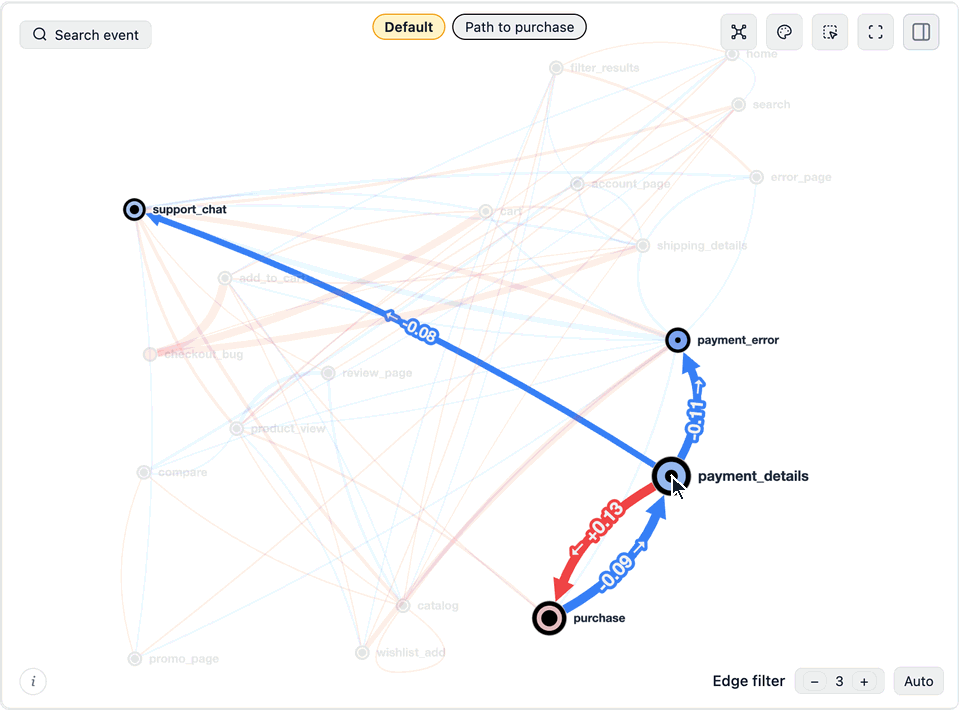
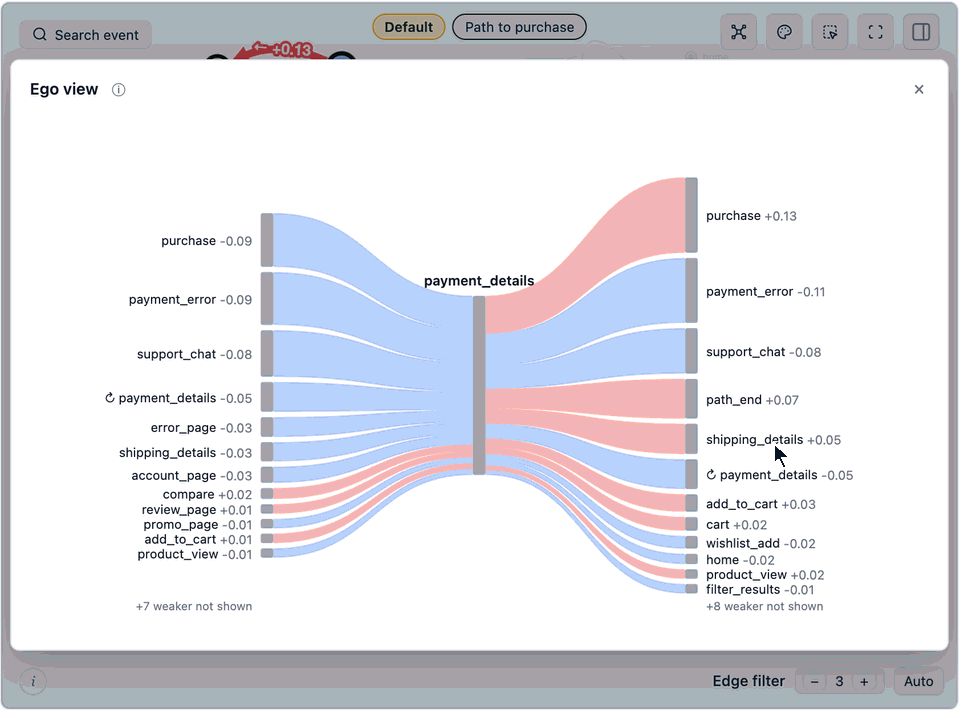
docs: re-record the README graph GIF with diff on the full graph and ego view
The old recording turned on comparison while the path-to-purchase view was
still selected, so the path focus hid the red/blue diff until a node was
clicked. The new one, recorded from the same scene (retentioneering 5.2.3,
live widget in JupyterLab), goes: path to purchase -> back to Default ->
Diff by Segment in the sidebar -> focus on payment_details -> Ego view,
then follows payment_error -> support_chat -> payment_details inside the
ego view. The poster PNG is regenerated from the last frame, ASSETS.md
describes the new recording, and the README alt text follows it.

Also includes README copy edits on the Colab line and the "Is it for you?"
list.

diff --git a/README.md b/README.md
@@ -10,22 +10,22 @@ Retentioneering is an open-source Python library for **understanding user behavi
 [![Telegram](https://img.shields.io/badge/chat-Telegram-26A5E4)](https://t.me/retentioneering_support)
 [![Try in Colab](https://colab.research.google.com/assets/colab-badge.svg)](https://colab.research.google.com/github/retentioneering/retentioneering-tools/blob/e95d44cda4cc5ac29f148b47470c31b08a240854/notebooks/retentioneering_5_tour.ipynb)
 
-**[Run every example below in Google Colab](https://colab.research.google.com/github/retentioneering/retentioneering-tools/blob/e95d44cda4cc5ac29f148b47470c31b08a240854/notebooks/retentioneering_5_tour.ipynb)** – sample data included, nothing to install.
+[Run a demo notebook in Google Colab](https://colab.research.google.com/github/retentioneering/retentioneering-tools/blob/e95d44cda4cc5ac29f148b47470c31b08a240854/notebooks/retentioneering_5_tour.ipynb) – no need to install the library locally, sample data included.
 
 [Quick start](#quick-start) · [Use cases](#common-use-cases) · [Use an AI agent](#work-with-an-ai-agent) · [Docs](https://retentioneering.com/docs/)
 
-<a href="https://retentioneering.com/docs/widgets/transition-graph"><img src=".github/readme/transition-graph.gif" width="820" alt="Interactive graph of a synthetic store: highlight the path to purchase, compare two periods in the settings panel, then click the payment step to focus on its connections."></a>
+<a href="https://retentioneering.com/docs/widgets/transition-graph"><img src=".github/readme/transition-graph.gif" width="820" alt="Interactive graph of a synthetic store: highlight the path to purchase, go back to the full graph, compare two periods in the settings panel, click the payment step to focus on its connections, then open its ego view and follow the paths from step to step."></a>
 
 *A demo of the interactive features of the [transition graph](https://retentioneering.com/docs/widgets/transition-graph) widget. You can highlight a route, compare path groups, focus on the step you want to investigate.*
 
 ## Is it for you?
 
-Use Retentioneering when you have a question about **the sequence of actions** like these:
+Use Retentioneering when you have a question about *the sequence of actions* like these:
 
-- **A metric changed.** Where did journeys change and move the metric?
-- **Users stop before reaching a goal.** What do they do instead and how do successful paths differ?
-- **You want to understand engagement.** What behavior types are represented, and how does usage evolve across visits?
-- **You need to investigate a flow.** Where do checkout, onboarding, support or agent runs loop, branch or stall?
+- A metric changed. Where did journeys change and move the metric?
+- Users stop before reaching a goal. What do they do instead and how do successful paths differ?
+- You want to understand engagement. What behavior types are represented, and how does usage evolve across visits?
+- You need to investigate a flow. Where do checkout, onboarding, support or agent runs loop, branch or stall?
 
 Bring an event-level export from your analytics platform, warehouse or application logs. All you need is a **user, session or case ID; an event name; and a timestamp**.
 

diff --git a/.github/readme/ASSETS.md b/.github/readme/ASSETS.md
@@ -6,14 +6,23 @@ a real business outcome.
 
 ## Preserved recordings
 
-`transition-graph.gif` and `agent-report.gif` are copied unchanged from
+`agent-report.gif` is copied unchanged from
 [`docs/readme-refresh` at e0c572b](https://github.com/retentioneering/retentioneering-tools/tree/e0c572b800312884de9b9a243d0f1663a1a37c56/.github/readme).
+`transition-graph.gif` was re-recorded from the same scene (retentioneering
+5.2.3 from PyPI, live widget in JupyterLab, since comparison needs a kernel).
 Their PNG companions are the final frames, provided for readers who prefer a
-static view. The graph recording is 13.38 seconds long. It demonstrates a saved
-path view, comparison settings and node focus; the
+static view. The graph recording is 24.5 seconds long. It selects the saved
+path view, returns to Default so the comparison colors are not hidden behind
+the path focus, turns on comparison in the sidebar, focuses the payment step,
+opens its ego view and follows three neighbors (payment error, support chat,
+back to payment details). The
 [tour notebook](../../notebooks/retentioneering_5_tour.ipynb) opens on the same saved view.
+The cursor and click rings are drawn over the captured frames; the route
+statistics badge that the path view shows is hidden in the capture, because
+its `P(route) 0.00%` for that exact contiguous route reads as an error out of
+context. Nothing else in the widget is changed.
 
-The preserved graph clip uses baseline minus incident in its sidebar, while the
+The graph clip uses baseline minus incident in its sidebar, while the
 new README comparison example uses incident minus baseline. The sign and color
 therefore reverse. The README describes each recording as an interface tour and
 states the comparison direction beside the executable example; do not transfer
